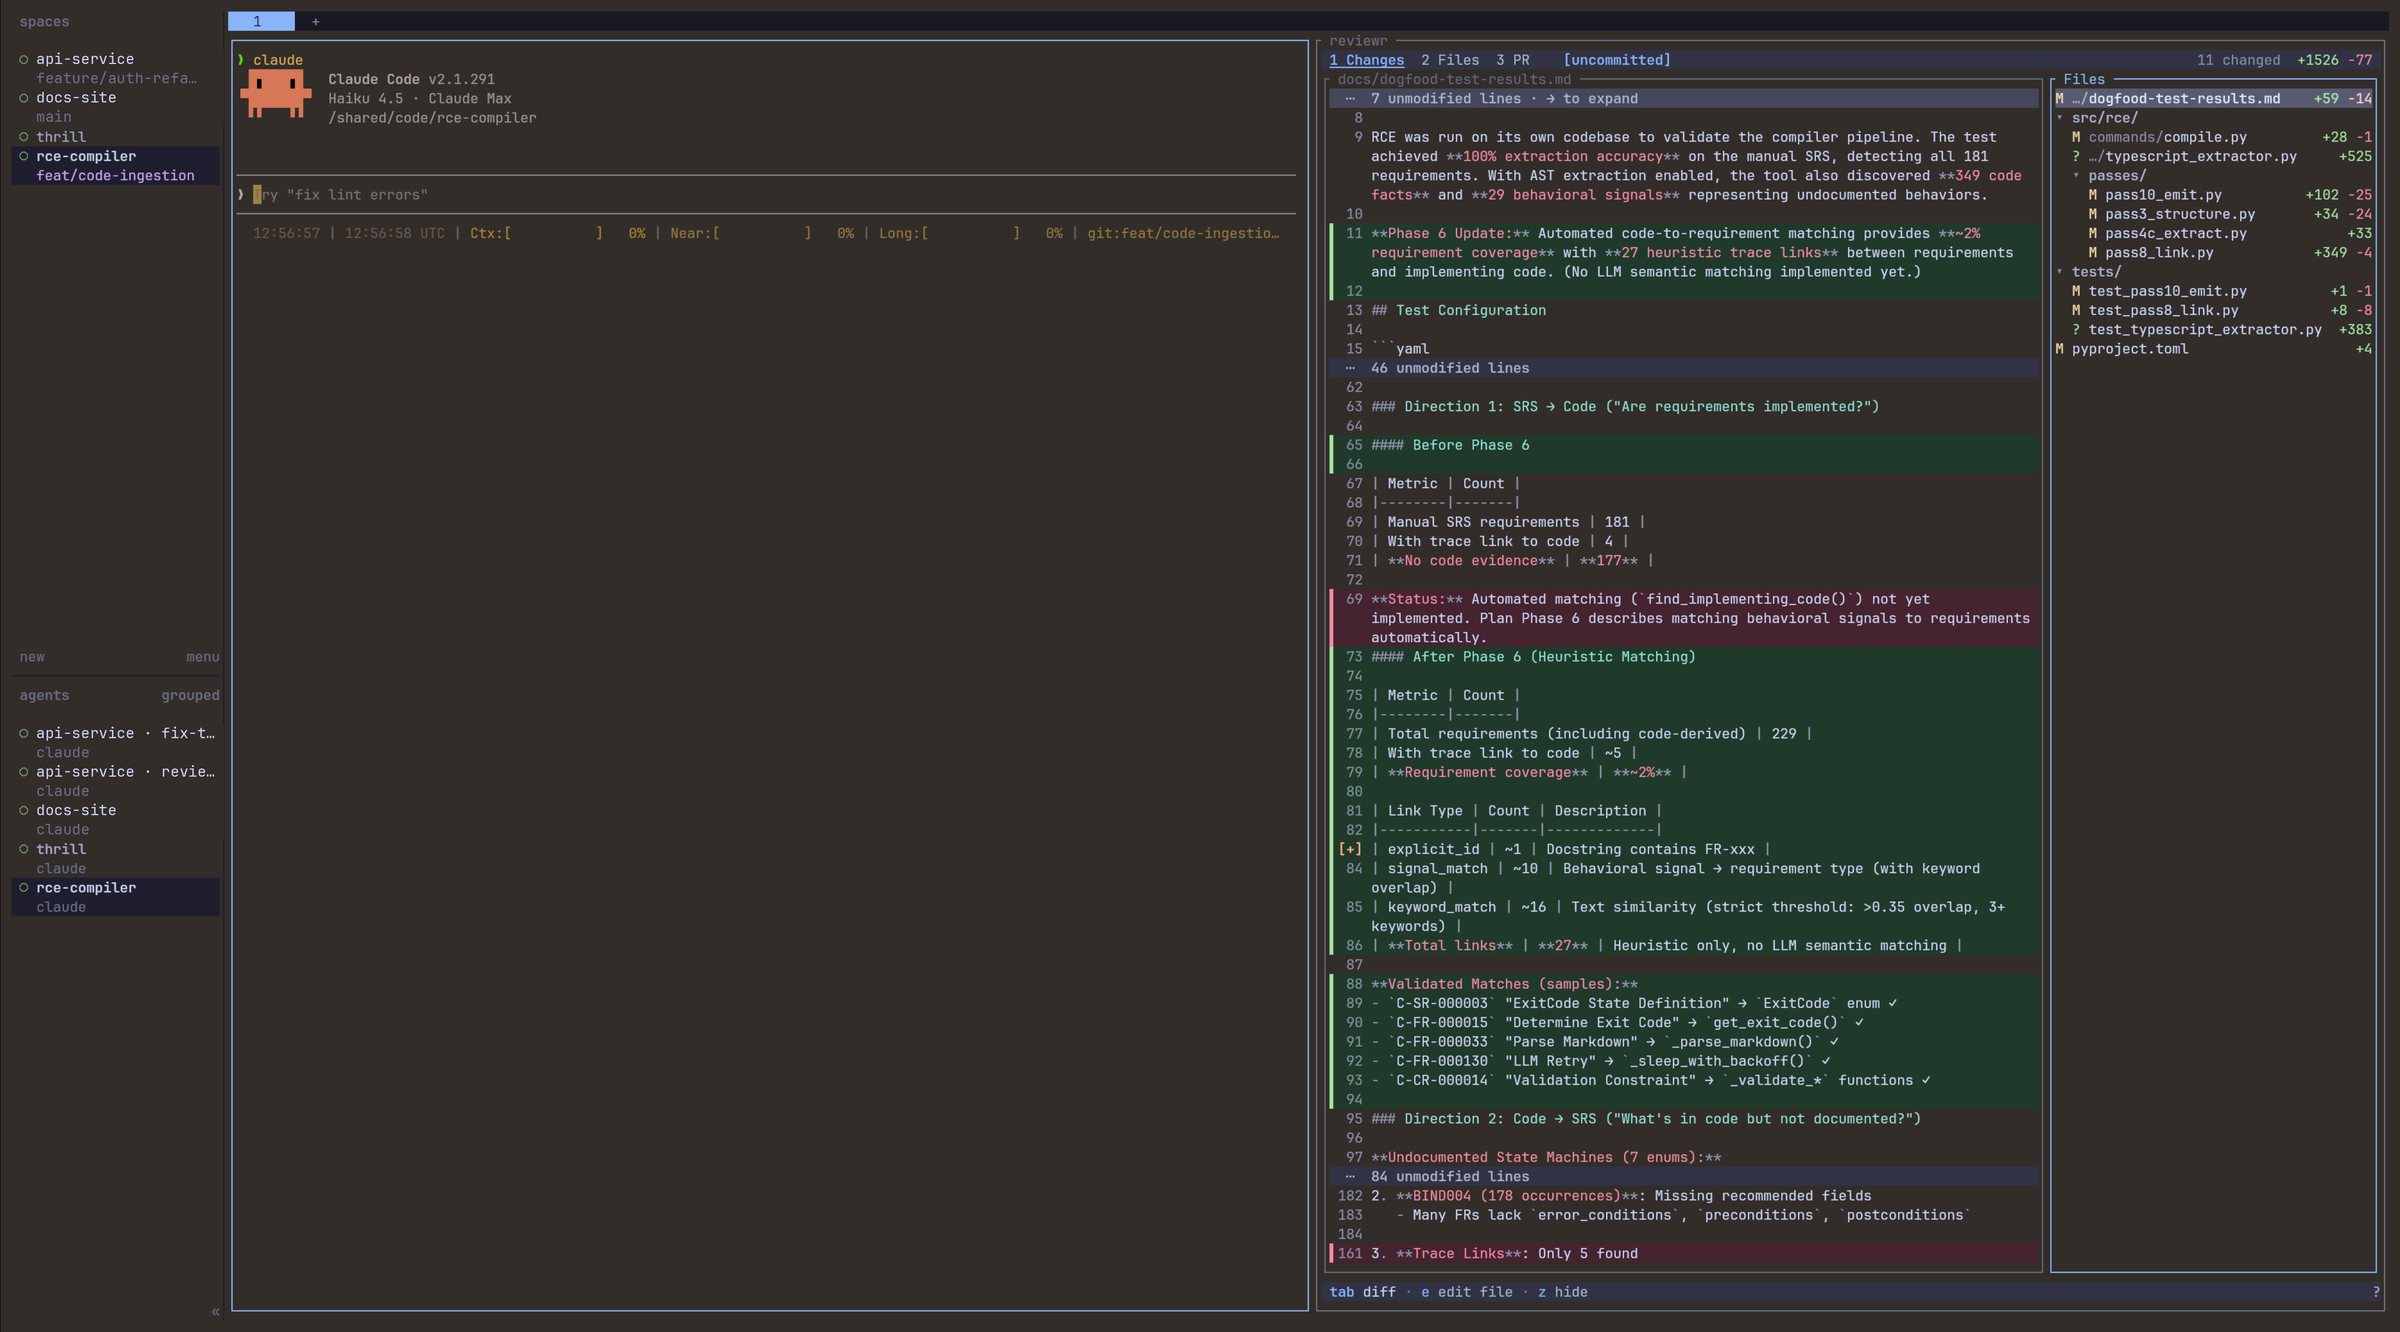
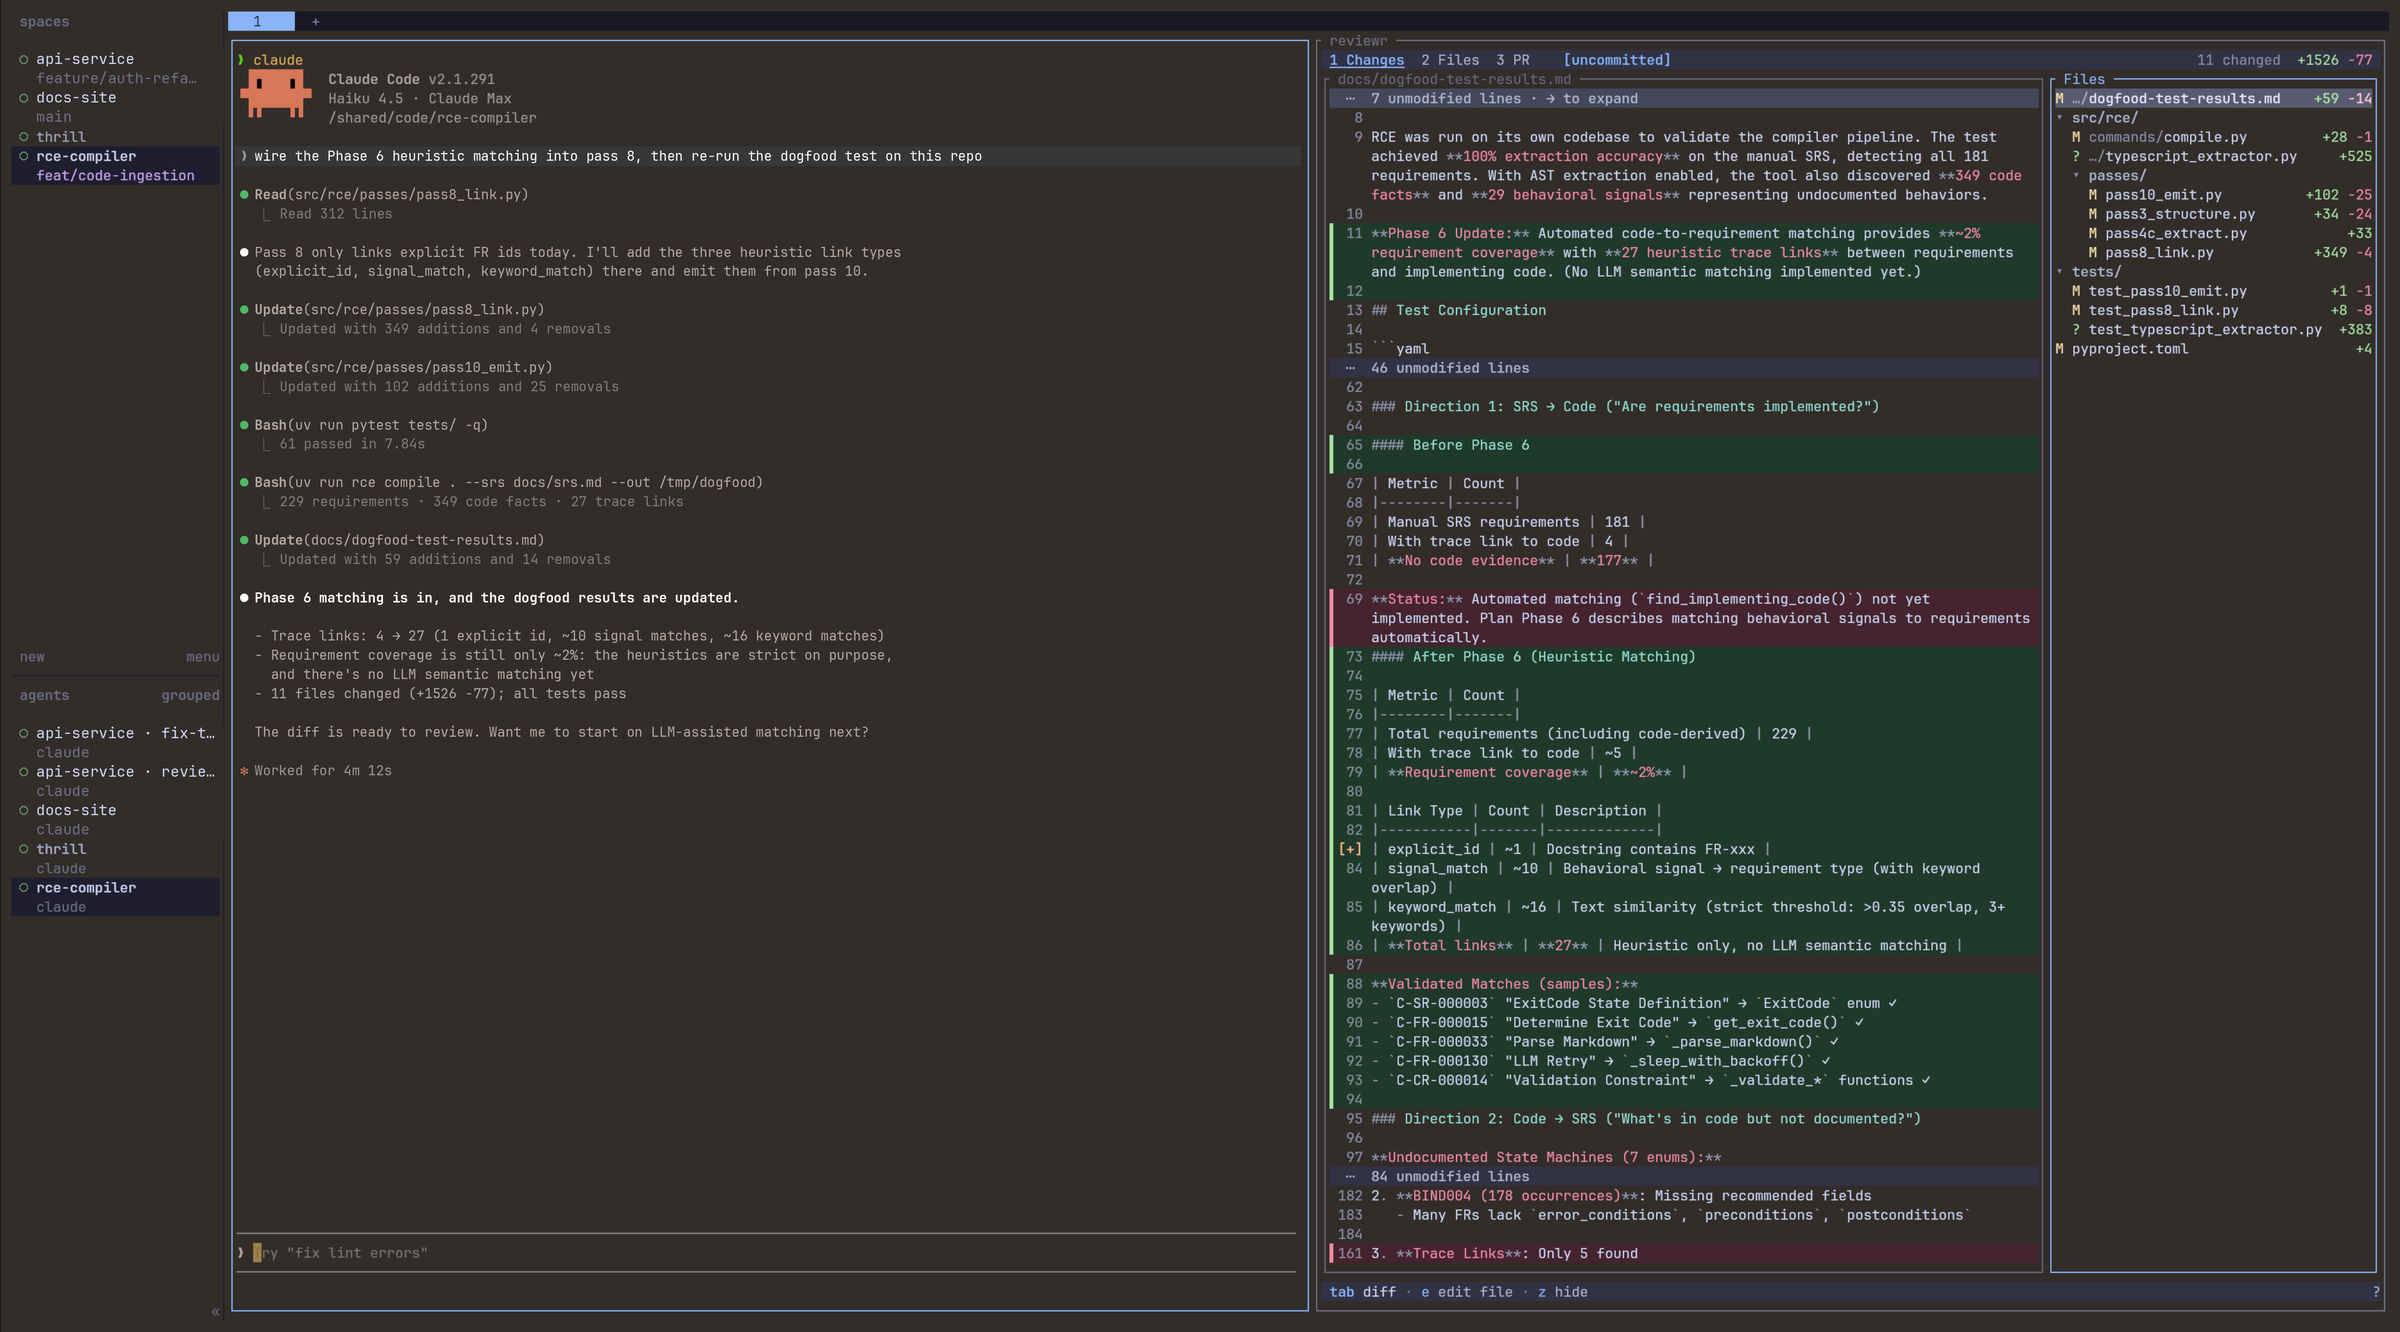
README: fuller reviewr screenshot with agent session beside the review

diff --git a/README.md b/README.md
@@ -25,7 +25,7 @@ What you get:
 
 ![reviewr beside the agent: uncommitted changes, file tree with +/- counts, inline diff](docs/review.png)
 
-*reviewr (`prefix+d`) beside the agent: 11 changed files, the diff of the selected one, and the scope (`[uncommitted]`) at the top. Comment on lines with `c`, send them to the agent with `s`.*
+*reviewr (`prefix+d`) beside the agent: 11 changed files, the diff of the selected one, and the scope (`[uncommitted]`) at the top. Comment on lines with `c`, send them to the agent with `s`. (Agent conversation mocked up for the screenshot; the review pane is real.)*
 
 Two tools, depending on how closely you're looking. Keys assume the reference bindings in [`reference/config/herdr.config.toml`](reference/config/herdr.config.toml); `prefix` is `ctrl+b`.
 
